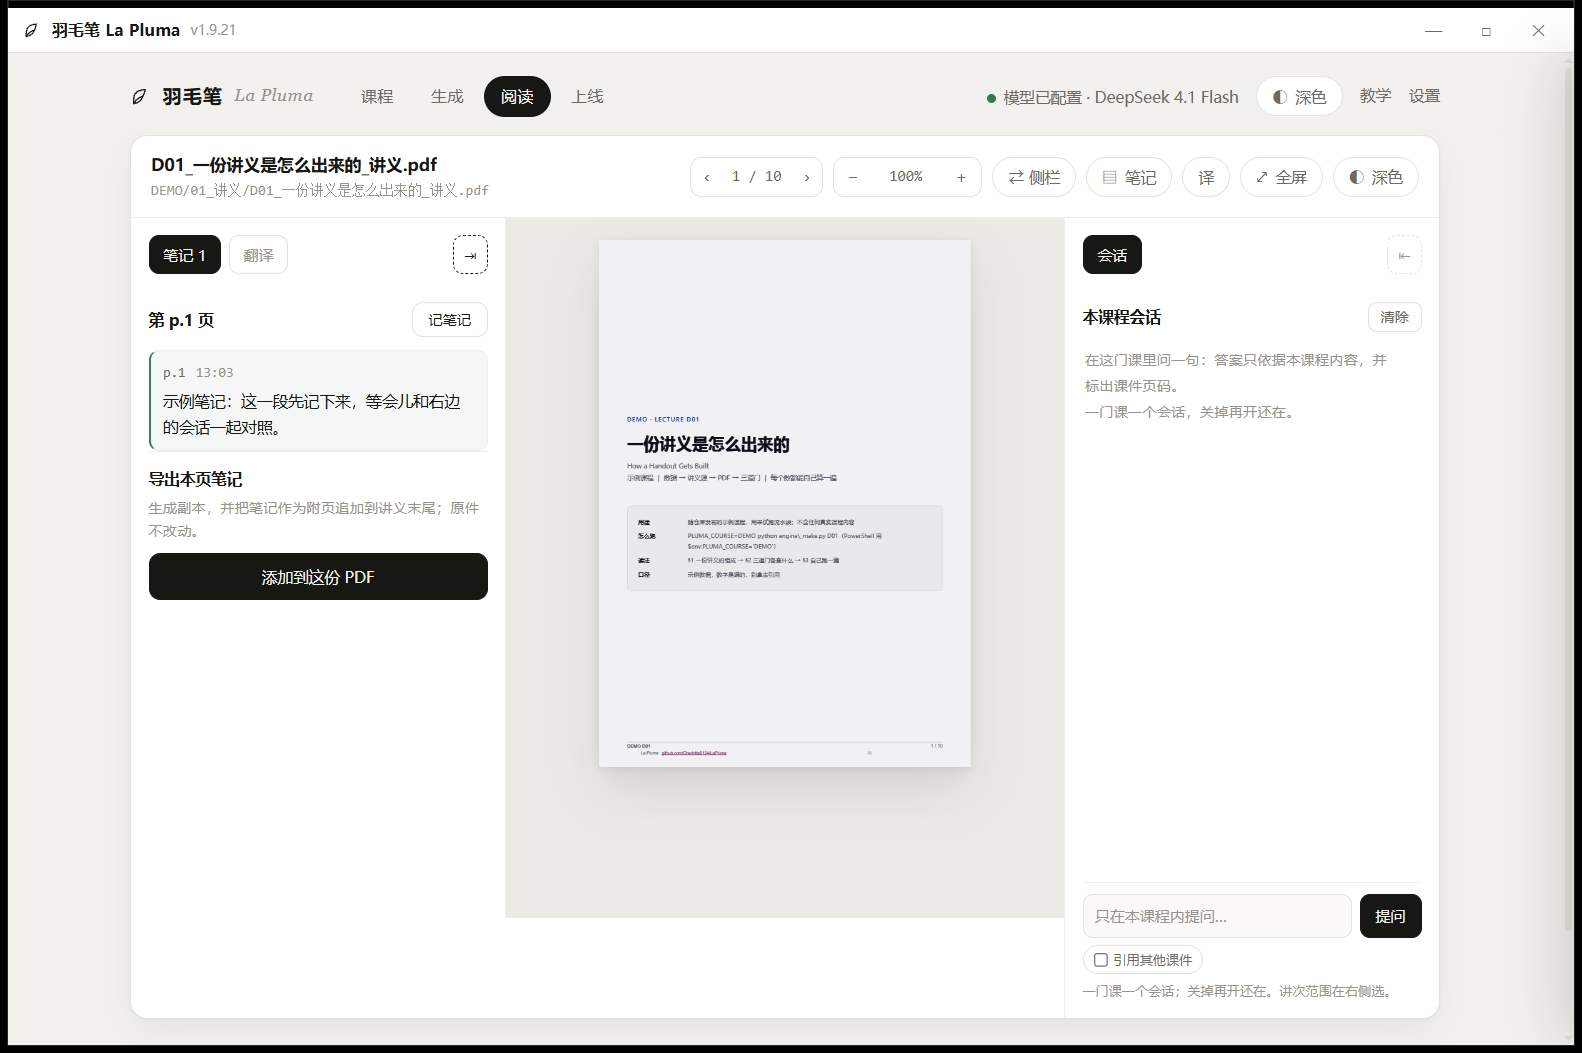
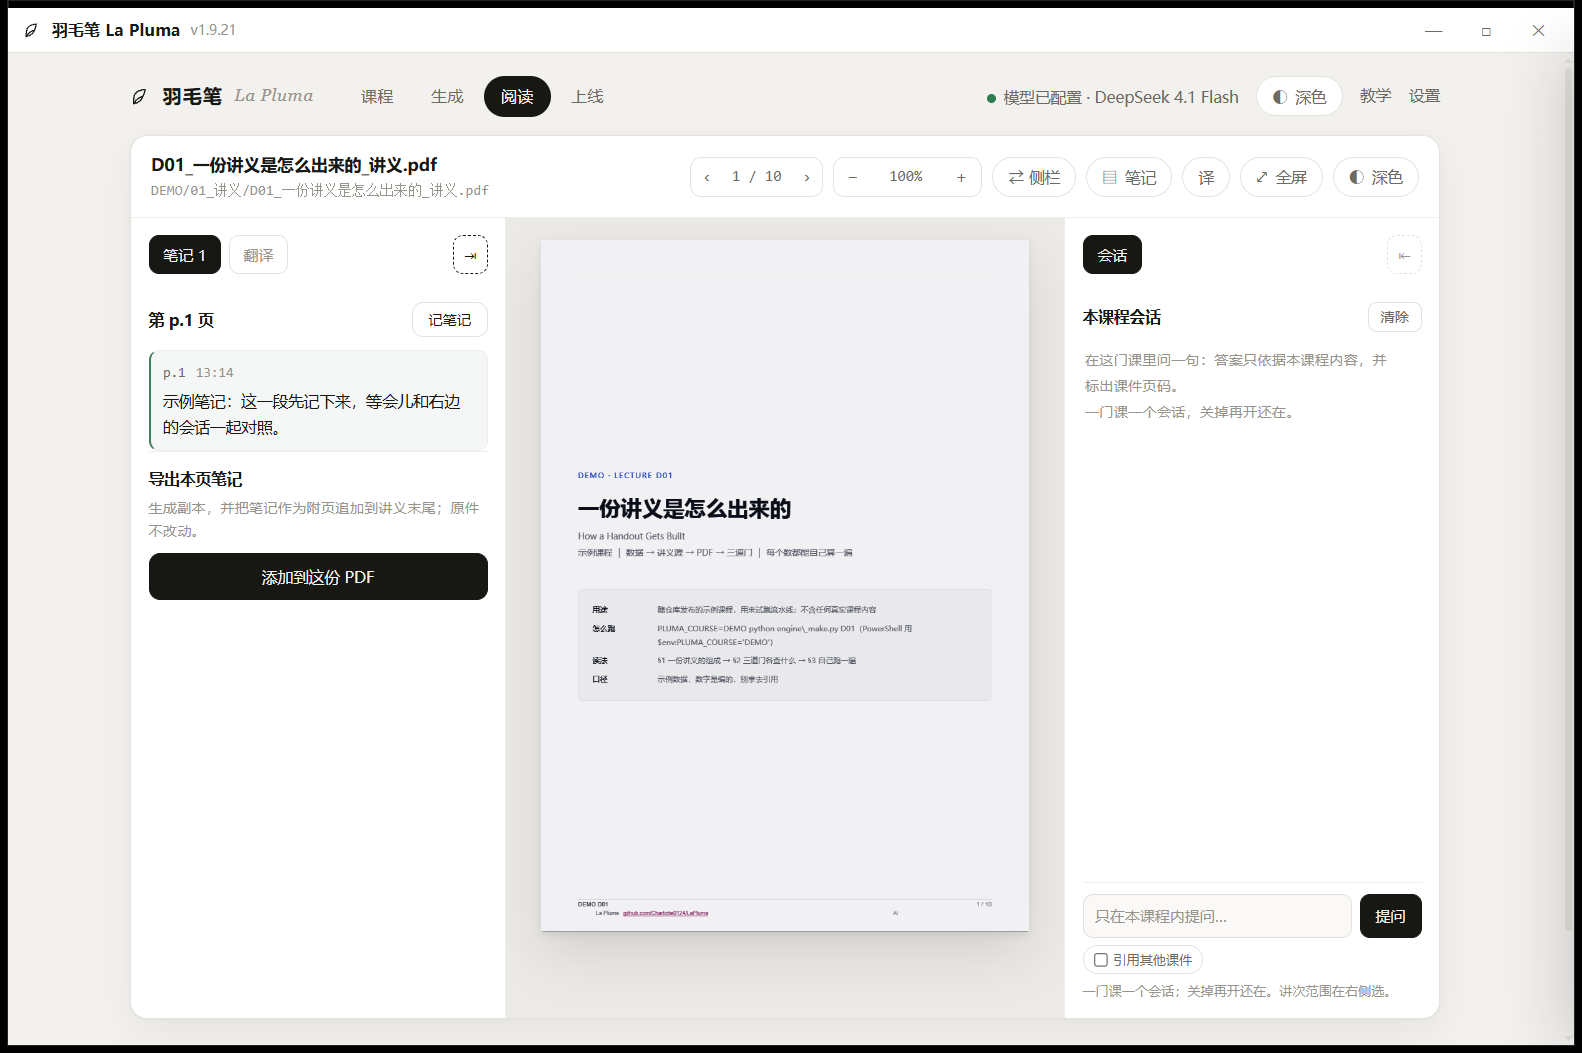
修阅读页布局：空栏与没选中的面板真正收起，两栏等高（v1.9.22）
用户 2026-11-25 在 v1.9.21 上截图：「另外这里底下怎么留有坑位的」。

- .side 与 #sideChat 自己写了 display:flex，作者样式比 UA 的 [hidden]{display:none} 优先，
  于是空着的左栏仍占一格、没选中的会话仍把侧栏撑高。显式补 .side[hidden] / #sideChat[hidden]。
- .read-body 改 align-items:stretch，.side 封顶 calc(100vh - 190px) 自己滚：
  侧栏内容再长也不把卡片撑出窗口，讲义下面不再留白。
- 换边改列宽时自动重排一次讲义，页面不会停在旧宽度上被两侧切掉。
- 判据：check-reading-tools 第 14 项加两条 [hidden] 断言与 align-items:stretch，14/14 绿。
- 截图重拍：docs\资产\界面-阅读-左右双栏.png（1582×1053，左笔记 + 右会话，卡片贴合窗口）。

diff --git a/ui/index.html b/ui/index.html
@@ -384,7 +384,7 @@ nav a.on{background:var(--ink);color:var(--bg)}
 .seg button{border:0;background:transparent;padding:5px 10px;color:inherit;font-size:12.5px}
 .seg button:hover{background:var(--card2);color:var(--ink)}
 .seg .val{padding:5px 8px;font-family:Consolas,monospace;font-size:12px;min-width:56px;text-align:center}
-.read-body{display:grid;grid-template-columns:1fr 300px;align-items:start}
+.read-body{display:grid;grid-template-columns:1fr 300px;align-items:stretch}
 /* 2026-11-25 用户：「左右都可以同时存在」——三个面板各自选边：
    左边栏 / 阅读器 / 右边栏，按 data-docks 决定列（l / r / lr / none）。
    左边栏自己带右分隔线，右边栏带左分隔线。 */
@@ -475,7 +475,13 @@ html,body{background:var(--bg)}
 .note-menu button.nc-dot:hover{transform:scale(1.16);background:transparent}
 .note-menu button.nc-dot.on{box-shadow:0 0 0 2px var(--ink)}
 .note-menu button.nc-dot i{display:block;width:14px;height:14px;border-radius:50%}
-.side{background:var(--card);padding:14px;border-left:1px solid var(--line2);min-height:560px;display:flex;flex-direction:column;gap:12px}
+.side{background:var(--card);padding:14px;border-left:1px solid var(--line2);min-height:560px;
+  max-height:calc(100vh - 190px);overflow:auto;display:flex;flex-direction:column;gap:12px}
+/* 2026-11-25 用户：「底下怎么留有坑位的」——两处都是 [hidden] 被自己的 display 顶掉：
+   空的左栏仍占一格（顶出一整行空位）、没选中的会话面板仍占高度撑高侧栏。
+   作者样式比 UA 的 [hidden]{display:none} 优先，这里显式补回来。 */
+.side[hidden]{display:none}
+#sideChat[hidden]{display:none}
 /* 2026-11-25：面板外面多了一层 .dock-body（面板要在左右两边搬），把 flex 链接下去，
    否则 #sideChat 的 flex:1 会断，会话列表就不滚了。 */
 .dock-body{display:flex;flex-direction:column;flex:1;min-height:0}
@@ -3154,7 +3160,11 @@ function applyDock(){
     el.hidden = !(groups[side].includes(k) && SIDE_ACTIVE[side] === k);
   });
   const both = groups.left.length && groups.right.length;
-  body.dataset.docks = SIDE_HIDDEN ? 'none' : (both ? 'lr' : (groups.left.length ? 'l' : (groups.right.length ? 'r' : 'none')));
+  const nextDocks = SIDE_HIDDEN ? 'none' : (both ? 'lr' : (groups.left.length ? 'l' : (groups.right.length ? 'r' : 'none')));
+  const docksChanged = body.dataset.docks !== nextDocks;
+  body.dataset.docks = nextDocks;
+  // 换边/开合会改讲义栏宽度：重排一次，别让页面停在旧宽度上被两侧切掉。
+  if(docksChanged && RD.doc) setTimeout(() => { try{ renderPdf(); }catch(_){} }, 80);
   if(card){
     const chatActive = SIDE_ACTIVE[SIDE_DOCK.chat] === 'chat';
     card.classList.toggle('chat-on', !SIDE_HIDDEN && chatActive);

diff --git a/tools/check/check-reading-tools.py b/tools/check/check-reading-tools.py
@@ -252,7 +252,12 @@ def check(root):
         and 'id="btnSide"' in idx and ".side-tabs .stab.mv{" in idx
         and "el && el.parentElement !== box) box.appendChild(el)" in idx   # 面板跟着边搬，不复制
         and "applyDock();   // 首屏先把页签条画出来" in idx
-    ), "笔记 / 翻译 / 会话 各自存边（left/right），两边没面板的列自动收起；页签条上 ⇤/⇥ 只挪一块，工具条 ⇄ 侧栏整叠换边；选择记在 localStorage")
+        # 2026-11-25 用户「底下怎么留有坑位的」：空左栏与没选中的会话都被自己的 display 顶掉 hidden，
+        # 空左栏占掉一整格、会话把侧栏撑高；作者样式优先，必须显式补 [hidden]{display:none}
+        and ".side[hidden]{display:none}" in idx
+        and "#sideChat[hidden]{display:none}" in idx
+        and "align-items:stretch" in idx
+    ), "笔记 / 翻译 / 会话 各自存边（left/right），两边没面板的列自动收起；页签条上 ⇤/⇥ 只挪一块，工具条 ⇄ 侧栏整叠换边；选择记在 localStorage；空栏与没选中的面板被 [hidden] 真正收起（不再留坑位）")
 
     return rows
 

diff --git a/ui/server.py b/ui/server.py
@@ -132,7 +132,7 @@ HOST, PORT = "127.0.0.1", 8765
 #   每次打开/刷新阅读器都全量重传（本机无感，平板走 WiFi 明显）。
 #   index.html 必须仍走 no-store（改完界面要能立刻看到新版）。
 _STATIC_ETAG = {}
-VERSION = "1.9.21"
+VERSION = "1.9.22"
 # v1.9.15 起分发只走文件夹（仓库目录 + 启动羽毛笔.cmd）；单文件 exe 已退役，见 AGENTS.md 六。
 APP_NAME = "羽毛笔 La Pluma"
 

diff --git a/CHANGELOG.md b/CHANGELOG.md
@@ -2,6 +2,15 @@
 
 > 每条一个版本；`## vX.Y.Z · YYYY-MM-DD` 是硬格式，`tools/sync-readme.py` 靠它生成主页的「最近更新」表。
 
+## v1.9.22 · 2026-11-25
+
+<!-- 摘要：修 1.9.21 阅读页的布局：空栏占位与没藏住的会话面板，底下不再留白 -->
+
+- **阅读页底下不再留空位**（用户 2026-11-25 在 v1.9.21 上截图：「另外这里底下怎么留有坑位的」）：空着的左栏、没选中的会话面板都带 `hidden`，但它们自己的 `display:flex` 比浏览器的 `[hidden]{display:none}` 优先——空左栏仍占掉一整格、会话仍把侧栏撑高。现在显式补回这两条隐藏规则。
+- **两栏等高**：阅读区跟着行高拉伸，侧栏封顶 `calc(100vh - 190px)` 自己滚；侧栏内容再长也不会把卡片撑出窗口，讲义下面不再留白。
+- **换边后重排讲义**：列宽变化时自动重排一次，页面不会停在旧宽度上被两侧切掉。
+- 判据：`check-reading-tools.py` 第 14 项追加两条 `[hidden]` 断言与 `align-items:stretch`，仍是 14/14；真窗口复核「默认右 → 整叠左 → 会话单挪右 → 刷新仍 lr → 隐藏/显示」。
+
 ## v1.9.21 · 2026-11-25
 
 <!-- 摘要：阅读侧栏可以放到左边、左右两侧同时开着；设置页版本行不再说「已是最新」 -->
